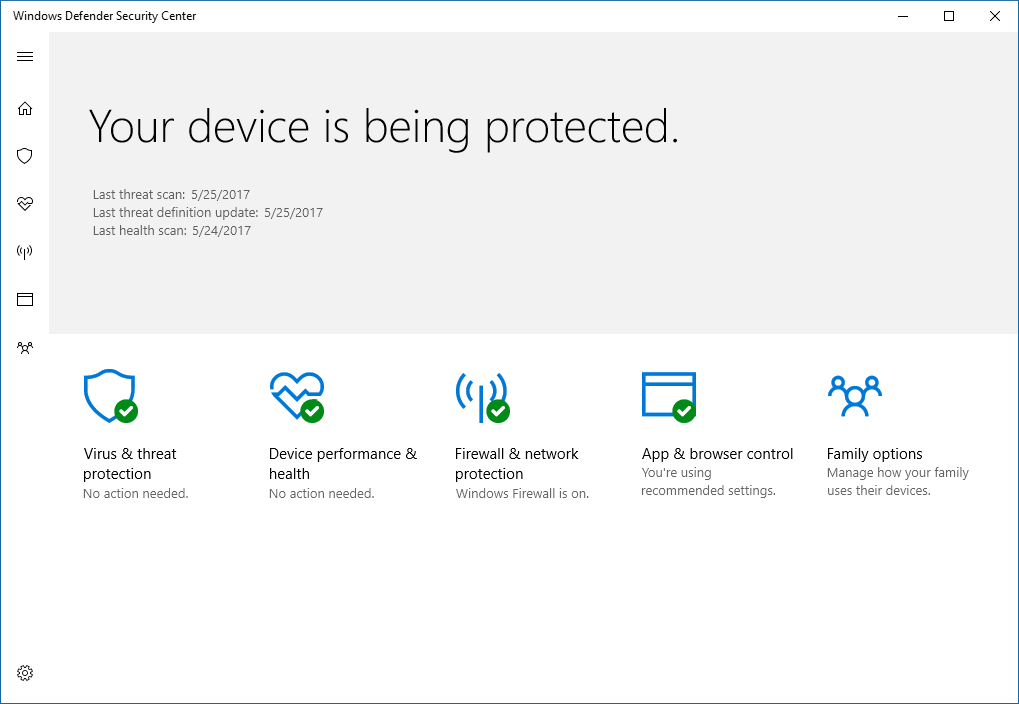
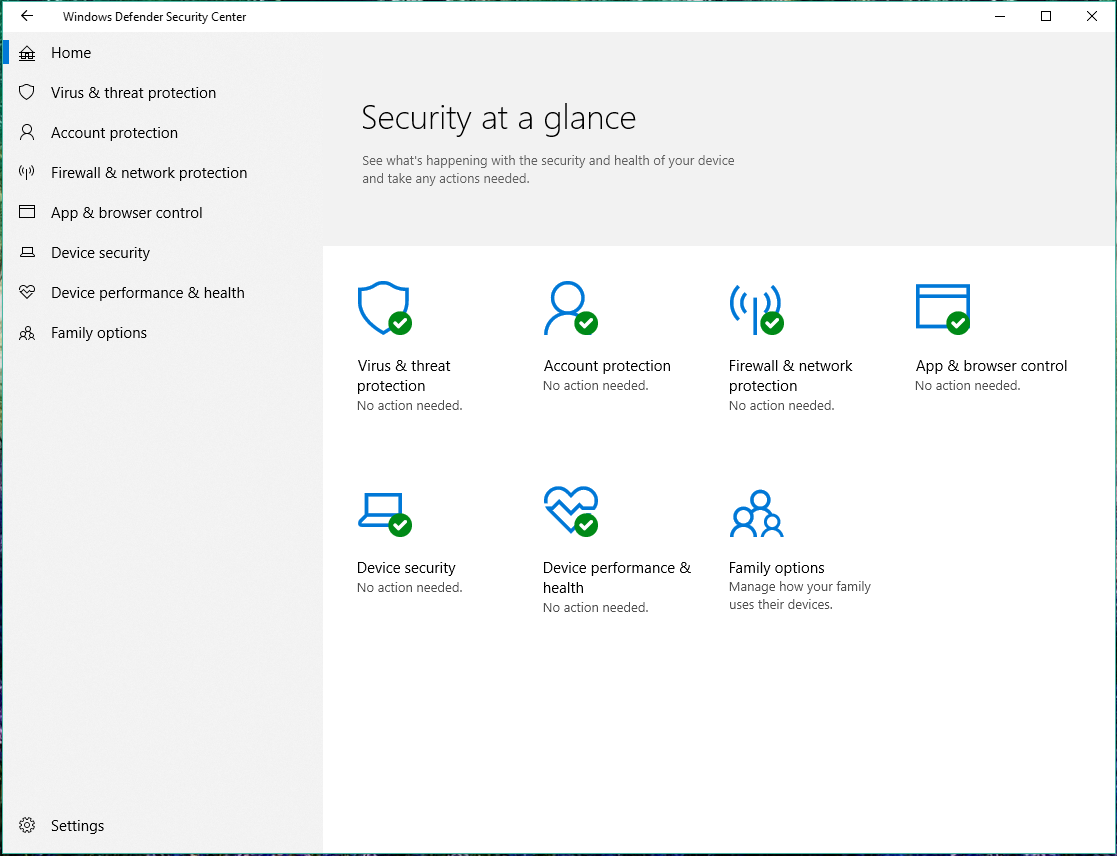
Edit screen shot

diff --git a/windows/security/threat-protection/windows-defender-security-center/windows-defender-security-center.md b/windows/security/threat-protection/windows-defender-security-center/windows-defender-security-center.md
@@ -36,10 +36,12 @@ The Windows Defender Security Center app brings together common Windows security
 
 In Windows 10, version 1709 and later, the app also shows information from third-party antivirus and firewall apps.
 
+In Windows 10, version 1803, the app has two new areas, **Account protection** and **Device security**.
+
 >[!NOTE]
 >The Windows Defender Security Center app is a client interface on Windows 10, version 1703 and later. It is not the Windows Defender Security Center web portal console that is used to review and manage [Windows Defender Advanced Threat Protection](https://docs.microsoft.com/en-us/windows/threat-protection/windows-defender-atp/windows-defender-advanced-threat-protection).
 
-This library describes the Windows defender Security Center app, and provides information on configuring certain features, inlcuding:
+This library describes the Windows defender Security Center app, and provides information on configuring certain features, including:
 
 <a id="customize-notifications-from-the-windows-defender-security-center"></a>
 - [Showing and customizing contact information on the app and in notifications](wdsc-customize-contact-information.md)
@@ -74,6 +76,7 @@ You can find more information about each section, including options for configur
 
     ![Screen shot of the Start menu showing the results of a search for the Windows Defender Security Center app, the first option with a large shield symbol is selected](images/security-center-start-menu.png)
 
+	
 
 > [!NOTE]
 > Settings configured with management tools, such as Group Policy, Microsoft Intune, or System Center Configuration Manager, will generally take precedence over the settings in the Windows Defender Security Center. See the topics for each of the sections for links to configuring the associated features or products.
